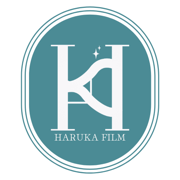
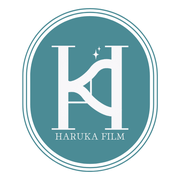
chore(pc): faviconの余白を切り詰めてロゴを大きく + キャッシュバスター付与
【症状】
- ブックマーク追加時のサムネイルや、ブックマークバーのアイコンで
  HARUKA FILM ロゴが小さく表示される（旧アイコンに見える）

【原因】
- 元の HARUKA FILM ロゴ.png は 500x500 だが、ロゴ本体のbboxは
  (57, 17) - (443, 483) で周囲に大きな白い余白があった
- 単純にリサイズするとロゴが小さく見える
- さらにブラウザの favicon キャッシュで旧画像が残っていた

【対処】
1. ロゴの非白領域をピクセル単位で計算しクロップ → 5%の余白を残して
   正方形キャンバスに中央配置 → 各サイズに LANCZOS リサイズ
   結果、ロゴがアイコンの大半を占めるようになる
2. 4ページ全ての favicon link / apple-touch-icon URL に ?v=2 を付与
   ブラウザのキャッシュを強制的に refresh

diff --git a/public/haruka.html b/public/haruka.html
@@ -5,16 +5,16 @@
 <meta name="viewport" content="width=device-width, initial-scale=1.0">
 <title>HARUKA FILM SYSTEM</title>
 <!-- Favicon (ブラウザタブ・ブックマーク用) -->
-<link rel="icon" type="image/png" sizes="192x192" href="/icon-192.png">
-<link rel="icon" type="image/png" sizes="32x32" href="/icon-192.png">
-<link rel="shortcut icon" href="/icon-192.png">
+<link rel="icon" type="image/png" sizes="192x192" href="/icon-192.png?v=2">
+<link rel="icon" type="image/png" sizes="32x32" href="/icon-192.png?v=2">
+<link rel="shortcut icon" href="/icon-192.png?v=2">
 <!-- PWA -->
 <link rel="manifest" href="/manifest.json">
 <meta name="theme-color" content="#2BB8B4">
 <meta name="apple-mobile-web-app-capable" content="yes">
 <meta name="apple-mobile-web-app-status-bar-style" content="black-translucent">
 <meta name="apple-mobile-web-app-title" content="HARUKA FILM">
-<link rel="apple-touch-icon" sizes="180x180" href="/icon-180.png">
+<link rel="apple-touch-icon" sizes="180x180" href="/icon-180.png?v=2">
 <link href="https://fonts.googleapis.com/css2?family=Noto+Sans+JP:wght@300;400;500;700&family=Montserrat:wght@700;800;900&display=swap" rel="stylesheet">
 <style>
 *{box-sizing:border-box;margin:0;padding:0;font-family:'Noto Sans JP',sans-serif}

diff --git a/public/invite.html b/public/invite.html
@@ -4,10 +4,10 @@
 <meta charset="UTF-8">
 <meta name="viewport" content="width=device-width, initial-scale=1.0">
 <title>HARUKA FILM — チーム参加登録</title>
-<link rel="icon" type="image/png" sizes="192x192" href="/icon-192.png">
-<link rel="icon" type="image/png" sizes="32x32" href="/icon-192.png">
-<link rel="shortcut icon" href="/icon-192.png">
-<link rel="apple-touch-icon" href="/icon-180.png">
+<link rel="icon" type="image/png" sizes="192x192" href="/icon-192.png?v=2">
+<link rel="icon" type="image/png" sizes="32x32" href="/icon-192.png?v=2">
+<link rel="shortcut icon" href="/icon-192.png?v=2">
+<link rel="apple-touch-icon" href="/icon-180.png?v=2">
 <link href="https://fonts.googleapis.com/css2?family=Noto+Sans+JP:wght@300;400;500;700&family=Montserrat:wght@300;400;600;700;800&display=swap" rel="stylesheet">
 <style>
 *{box-sizing:border-box;margin:0;padding:0}

diff --git a/public/login.html b/public/login.html
@@ -4,10 +4,10 @@
 <meta charset="UTF-8">
 <meta name="viewport" content="width=device-width, initial-scale=1.0">
 <title>HARUKA FILM SYSTEM — ログイン</title>
-<link rel="icon" type="image/png" sizes="192x192" href="/icon-192.png">
-<link rel="icon" type="image/png" sizes="32x32" href="/icon-192.png">
-<link rel="shortcut icon" href="/icon-192.png">
-<link rel="apple-touch-icon" href="/icon-180.png">
+<link rel="icon" type="image/png" sizes="192x192" href="/icon-192.png?v=2">
+<link rel="icon" type="image/png" sizes="32x32" href="/icon-192.png?v=2">
+<link rel="shortcut icon" href="/icon-192.png?v=2">
+<link rel="apple-touch-icon" href="/icon-180.png?v=2">
 <link href="https://fonts.googleapis.com/css2?family=Noto+Sans+JP:wght@300;400;500;700&family=Montserrat:wght@300;400;600;700;800&display=swap" rel="stylesheet">
 <style>
 *{box-sizing:border-box;margin:0;padding:0}

diff --git a/public/editor.html b/public/editor.html
@@ -4,10 +4,10 @@
 <meta charset="UTF-8">
 <meta name="viewport" content="width=device-width, initial-scale=1.0">
 <title>VIDEO OPS — 素材エディター</title>
-<link rel="icon" type="image/png" sizes="192x192" href="/icon-192.png">
-<link rel="icon" type="image/png" sizes="32x32" href="/icon-192.png">
-<link rel="shortcut icon" href="/icon-192.png">
-<link rel="apple-touch-icon" href="/icon-180.png">
+<link rel="icon" type="image/png" sizes="192x192" href="/icon-192.png?v=2">
+<link rel="icon" type="image/png" sizes="32x32" href="/icon-192.png?v=2">
+<link rel="shortcut icon" href="/icon-192.png?v=2">
+<link rel="apple-touch-icon" href="/icon-180.png?v=2">
 <link href="https://fonts.googleapis.com/css2?family=Bebas+Neue&family=Noto+Sans+JP:wght@300;400;500;700&family=JetBrains+Mono:wght@400;600&display=swap" rel="stylesheet">
 <style>
 :root{
